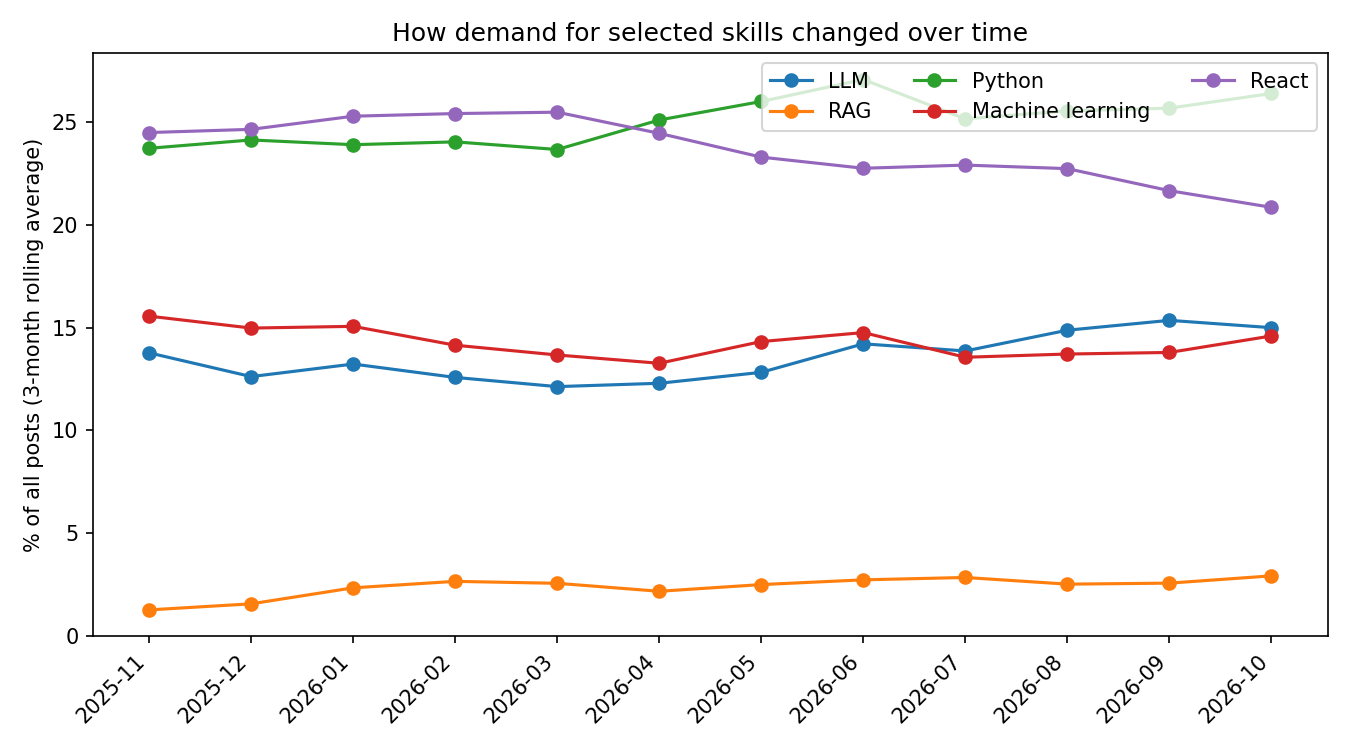
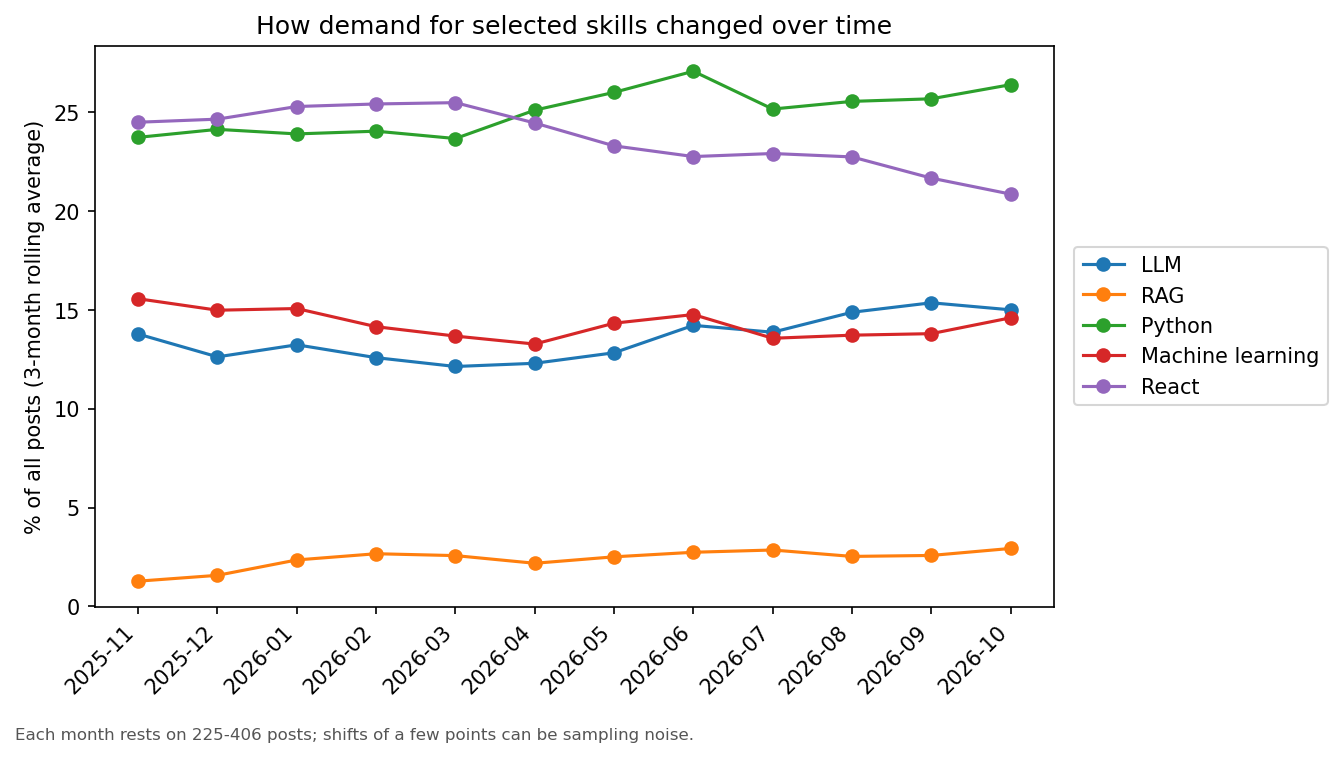
Fix trend chart legend and add sampling-noise note

diff --git a/src/explore_skills (1).py b/src/explore_skills (1).py
@@ -1,0 +1,141 @@
+"""Explore the collected posts: basic stats, skill frequencies and monthly trends.
+
+Usage (from the repo root):
+    python src/explore_skills.py
+
+Reads  data/raw/hn_hiring_posts.csv
+Writes aggregated tables to results/ and charts to results/figures/.
+Only aggregates are written there, so they are safe to commit.
+"""
+import argparse
+import re
+from pathlib import Path
+
+import matplotlib
+matplotlib.use("Agg")
+import matplotlib.pyplot as plt
+import pandas as pd
+
+from skills import SKILL_PATTERNS, find_skills
+
+# Weak label: does the HEADLINE (first line of the post) look like a data/ML role?
+# Headlines include the company name, so this is noisy ("Acme AI | Frontend Engineer"
+# would match). Week 3 measures how noisy it is using a hand-labelled gold set.
+DATA_ML_HEADLINE = re.compile(
+    r"data scien|data engineer|data analy|machine learning|\bML\b|\bAI\b|\bLLM\b|\bNLP\b|"
+    r"research scien|applied scien|mlops|analytics engineer",
+    re.IGNORECASE,
+)
+MIN_POSTS_FOR_MONTH_ESTIMATE = 20
+
+
+def pct(series):
+    return f"{series.mean() * 100:.1f}%"
+
+
+def main():
+    ap = argparse.ArgumentParser()
+    ap.add_argument("--data", default="data/raw/hn_hiring_posts.csv")
+    ap.add_argument("--out", default="results")
+    args = ap.parse_args()
+
+    out = Path(args.out)
+    (out / "figures").mkdir(parents=True, exist_ok=True)
+
+    df = pd.read_csv(args.data)
+    df["text"] = df["text"].fillna("")
+    df["headline"] = df["headline"].fillna("")
+    months = sorted(df["thread_month"].unique())
+
+    # ---- 1. Basic descriptive statistics --------------------------------
+    flags = {
+        "mentions remote": df["text"].str.contains(r"\bremote\b", case=False),
+        "mentions onsite": df["text"].str.contains(r"\bon-?site\b", case=False),
+        "mentions hybrid": df["text"].str.contains(r"\bhybrid\b", case=False),
+        "mentions a salary figure": df["text"].str.contains(r"[$€£]\s?\d|\b\d{2,3}\s?k\b", case=False),
+    }
+    df["is_data_ml"] = df["headline"].str.contains(DATA_ML_HEADLINE)
+
+    print(f"Posts: {len(df)} across {len(months)} months ({months[0]} to {months[-1]})")
+    print(f"Post length: median {int(df['text'].str.len().median())} characters, "
+          f"90th percentile {int(df['text'].str.len().quantile(.9))}")
+    for name, flag in flags.items():
+        print(f"  {name}: {pct(flag)}")
+    print(f"  headline looks data/ML (weak label): {pct(df['is_data_ml'])} "
+          f"({int(df['is_data_ml'].sum())} posts)")
+
+    month_counts = (df.groupby("thread_month")
+                    .agg(posts=("post_id", "size"), data_ml_posts=("is_data_ml", "sum")))
+    month_counts.to_csv(out / "month_counts.csv")
+    print("\nPosts per month (all / data-ML headline):")
+    print(month_counts.to_string())
+
+    # ---- 2. Skill extraction --------------------------------------------
+    skill_sets = df["text"].apply(find_skills)
+    skills_df = pd.DataFrame(
+        {name: skill_sets.apply(lambda s, n=name: n in s) for name in SKILL_PATTERNS})
+    skills_df["thread_month"] = df["thread_month"]
+    skills_df["is_data_ml"] = df["is_data_ml"]
+
+    skill_cols = list(SKILL_PATTERNS)
+    overall = pd.DataFrame({
+        "share_all_posts": skills_df[skill_cols].mean(),
+        "share_data_ml_posts": skills_df.loc[skills_df["is_data_ml"], skill_cols].mean(),
+        "n_all": skills_df[skill_cols].sum(),
+        "n_data_ml": skills_df.loc[skills_df["is_data_ml"], skill_cols].sum(),
+    }).sort_values("share_data_ml_posts", ascending=False)
+    overall.round(4).to_csv(out / "skills_overall.csv")
+
+    print("\nTop 15 skills in data/ML-headline posts (share of those posts):")
+    print((overall.head(15)[["share_data_ml_posts", "share_all_posts"]] * 100).round(1).to_string())
+
+    # ---- 3. Monthly trends (share of ALL posts per month) ---------------
+    by_month = skills_df.groupby("thread_month")[skill_cols].mean()
+    by_month.round(4).to_csv(out / "skills_by_month_all.csv")
+    by_month_ml = skills_df[skills_df["is_data_ml"]].groupby("thread_month")[skill_cols].mean()
+    by_month_ml.round(4).to_csv(out / "skills_by_month_data_ml.csv")
+
+    # ---- 4. Figures -----------------------------------------------------
+    top = overall.head(15).iloc[::-1]
+    fig, ax = plt.subplots(figsize=(8, 6))
+    pos = range(len(top))
+    ax.barh([p + 0.2 for p in pos], top["share_data_ml_posts"] * 100, height=0.4,
+            label=f"Data/ML headline posts (n={int(df['is_data_ml'].sum())})", color="#2a6f97")
+    ax.barh([p - 0.2 for p in pos], top["share_all_posts"] * 100, height=0.4,
+            label=f"All posts (n={len(df)})", color="#adb5bd")
+    ax.set_yticks(list(pos))
+    ax.set_yticklabels(top.index)
+    ax.set_xlabel("% of posts mentioning the skill")
+    ax.set_title("Most requested skills in Hacker News hiring posts")
+    ax.legend(loc="lower right")
+    fig.tight_layout()
+    fig.savefig(out / "figures" / "top_skills.png", dpi=150)
+    plt.close(fig)
+
+    trend_skills = list(dict.fromkeys(["LLM", "RAG"] + list(overall.head(4).index)))[:6]
+    smooth = (by_month[trend_skills] * 100).rolling(3, min_periods=1).mean()
+    fig, ax = plt.subplots(figsize=(9, 5))
+    for s in trend_skills:
+        ax.plot(smooth.index, smooth[s], marker="o", label=s)
+    ax.set_ylabel("% of all posts (3-month rolling average)")
+    ax.set_title("How demand for selected skills changed over time")
+    ax.legend(loc="center left", bbox_to_anchor=(1.01, 0.5))   # outside, so it hides no data
+    plt.setp(ax.get_xticklabels(), rotation=45, ha="right")
+    lo, hi = int(month_counts["posts"].min()), int(month_counts["posts"].max())
+    fig.text(0.01, 0.005,
+             f"Each month rests on {lo}-{hi} posts; shifts of a few points can be sampling noise.",
+             fontsize=8, color="#555555")
+    fig.tight_layout(rect=(0, 0.03, 1, 1))
+    fig.savefig(out / "figures" / "skill_trends.png", dpi=150, bbox_inches="tight")
+    plt.close(fig)
+
+    thin = month_counts[month_counts["data_ml_posts"] < MIN_POSTS_FOR_MONTH_ESTIMATE]
+    if len(thin):
+        print(f"\nNote: {len(thin)} month(s) have fewer than {MIN_POSTS_FOR_MONTH_ESTIMATE} "
+              "data/ML-headline posts, so month-level data/ML shares are noisy. "
+              "Trend charts therefore use all posts and a rolling average.")
+    print(f"\nWrote tables and figures to {out}/")
+
+
+if __name__ == "__main__":
+    main()

diff --git a/src/explore_skills.py b/src/explore_skills.py
@@ -119,10 +119,14 @@ def main():
         ax.plot(smooth.index, smooth[s], marker="o", label=s)
     ax.set_ylabel("% of all posts (3-month rolling average)")
     ax.set_title("How demand for selected skills changed over time")
-    ax.legend(ncol=3)
+    ax.legend(loc="center left", bbox_to_anchor=(1.01, 0.5))   # outside, so it hides no data
     plt.setp(ax.get_xticklabels(), rotation=45, ha="right")
-    fig.tight_layout()
-    fig.savefig(out / "figures" / "skill_trends.png", dpi=150)
+    lo, hi = int(month_counts["posts"].min()), int(month_counts["posts"].max())
+    fig.text(0.01, 0.005,
+             f"Each month rests on {lo}-{hi} posts; shifts of a few points can be sampling noise.",
+             fontsize=8, color="#555555")
+    fig.tight_layout(rect=(0, 0.03, 1, 1))
+    fig.savefig(out / "figures" / "skill_trends.png", dpi=150, bbox_inches="tight")
     plt.close(fig)
 
     thin = month_counts[month_counts["data_ml_posts"] < MIN_POSTS_FOR_MONTH_ESTIMATE]
